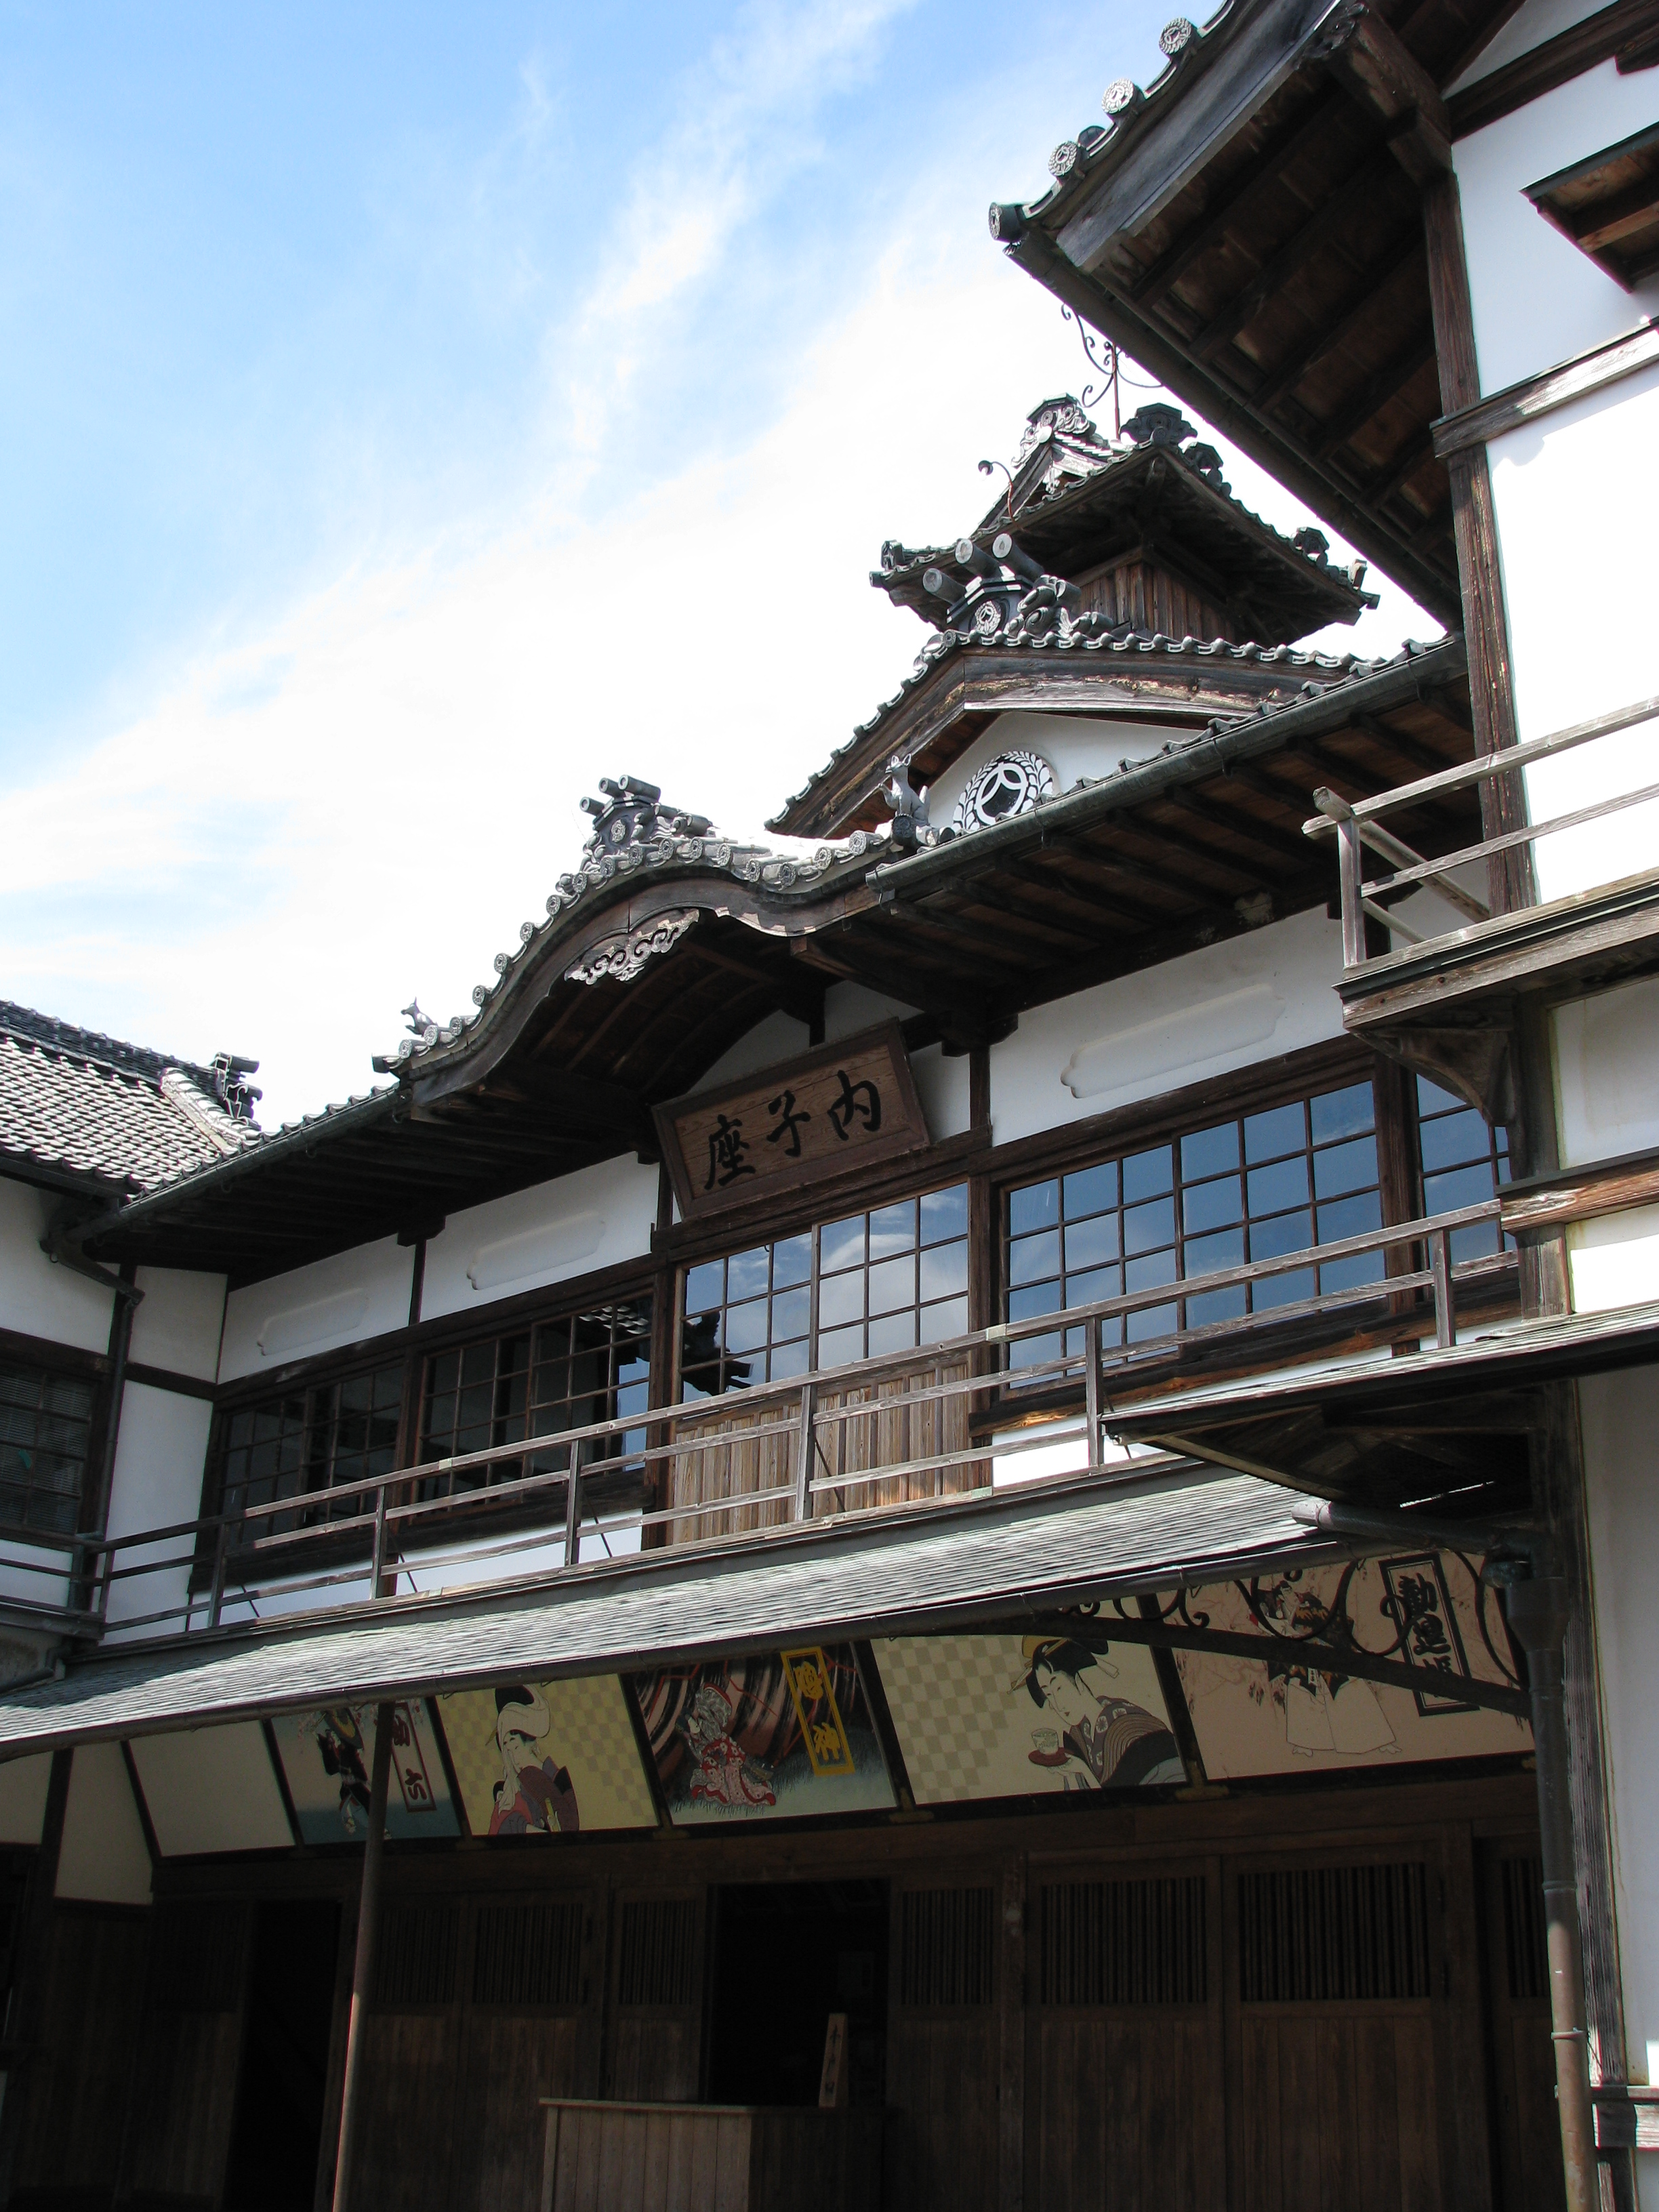
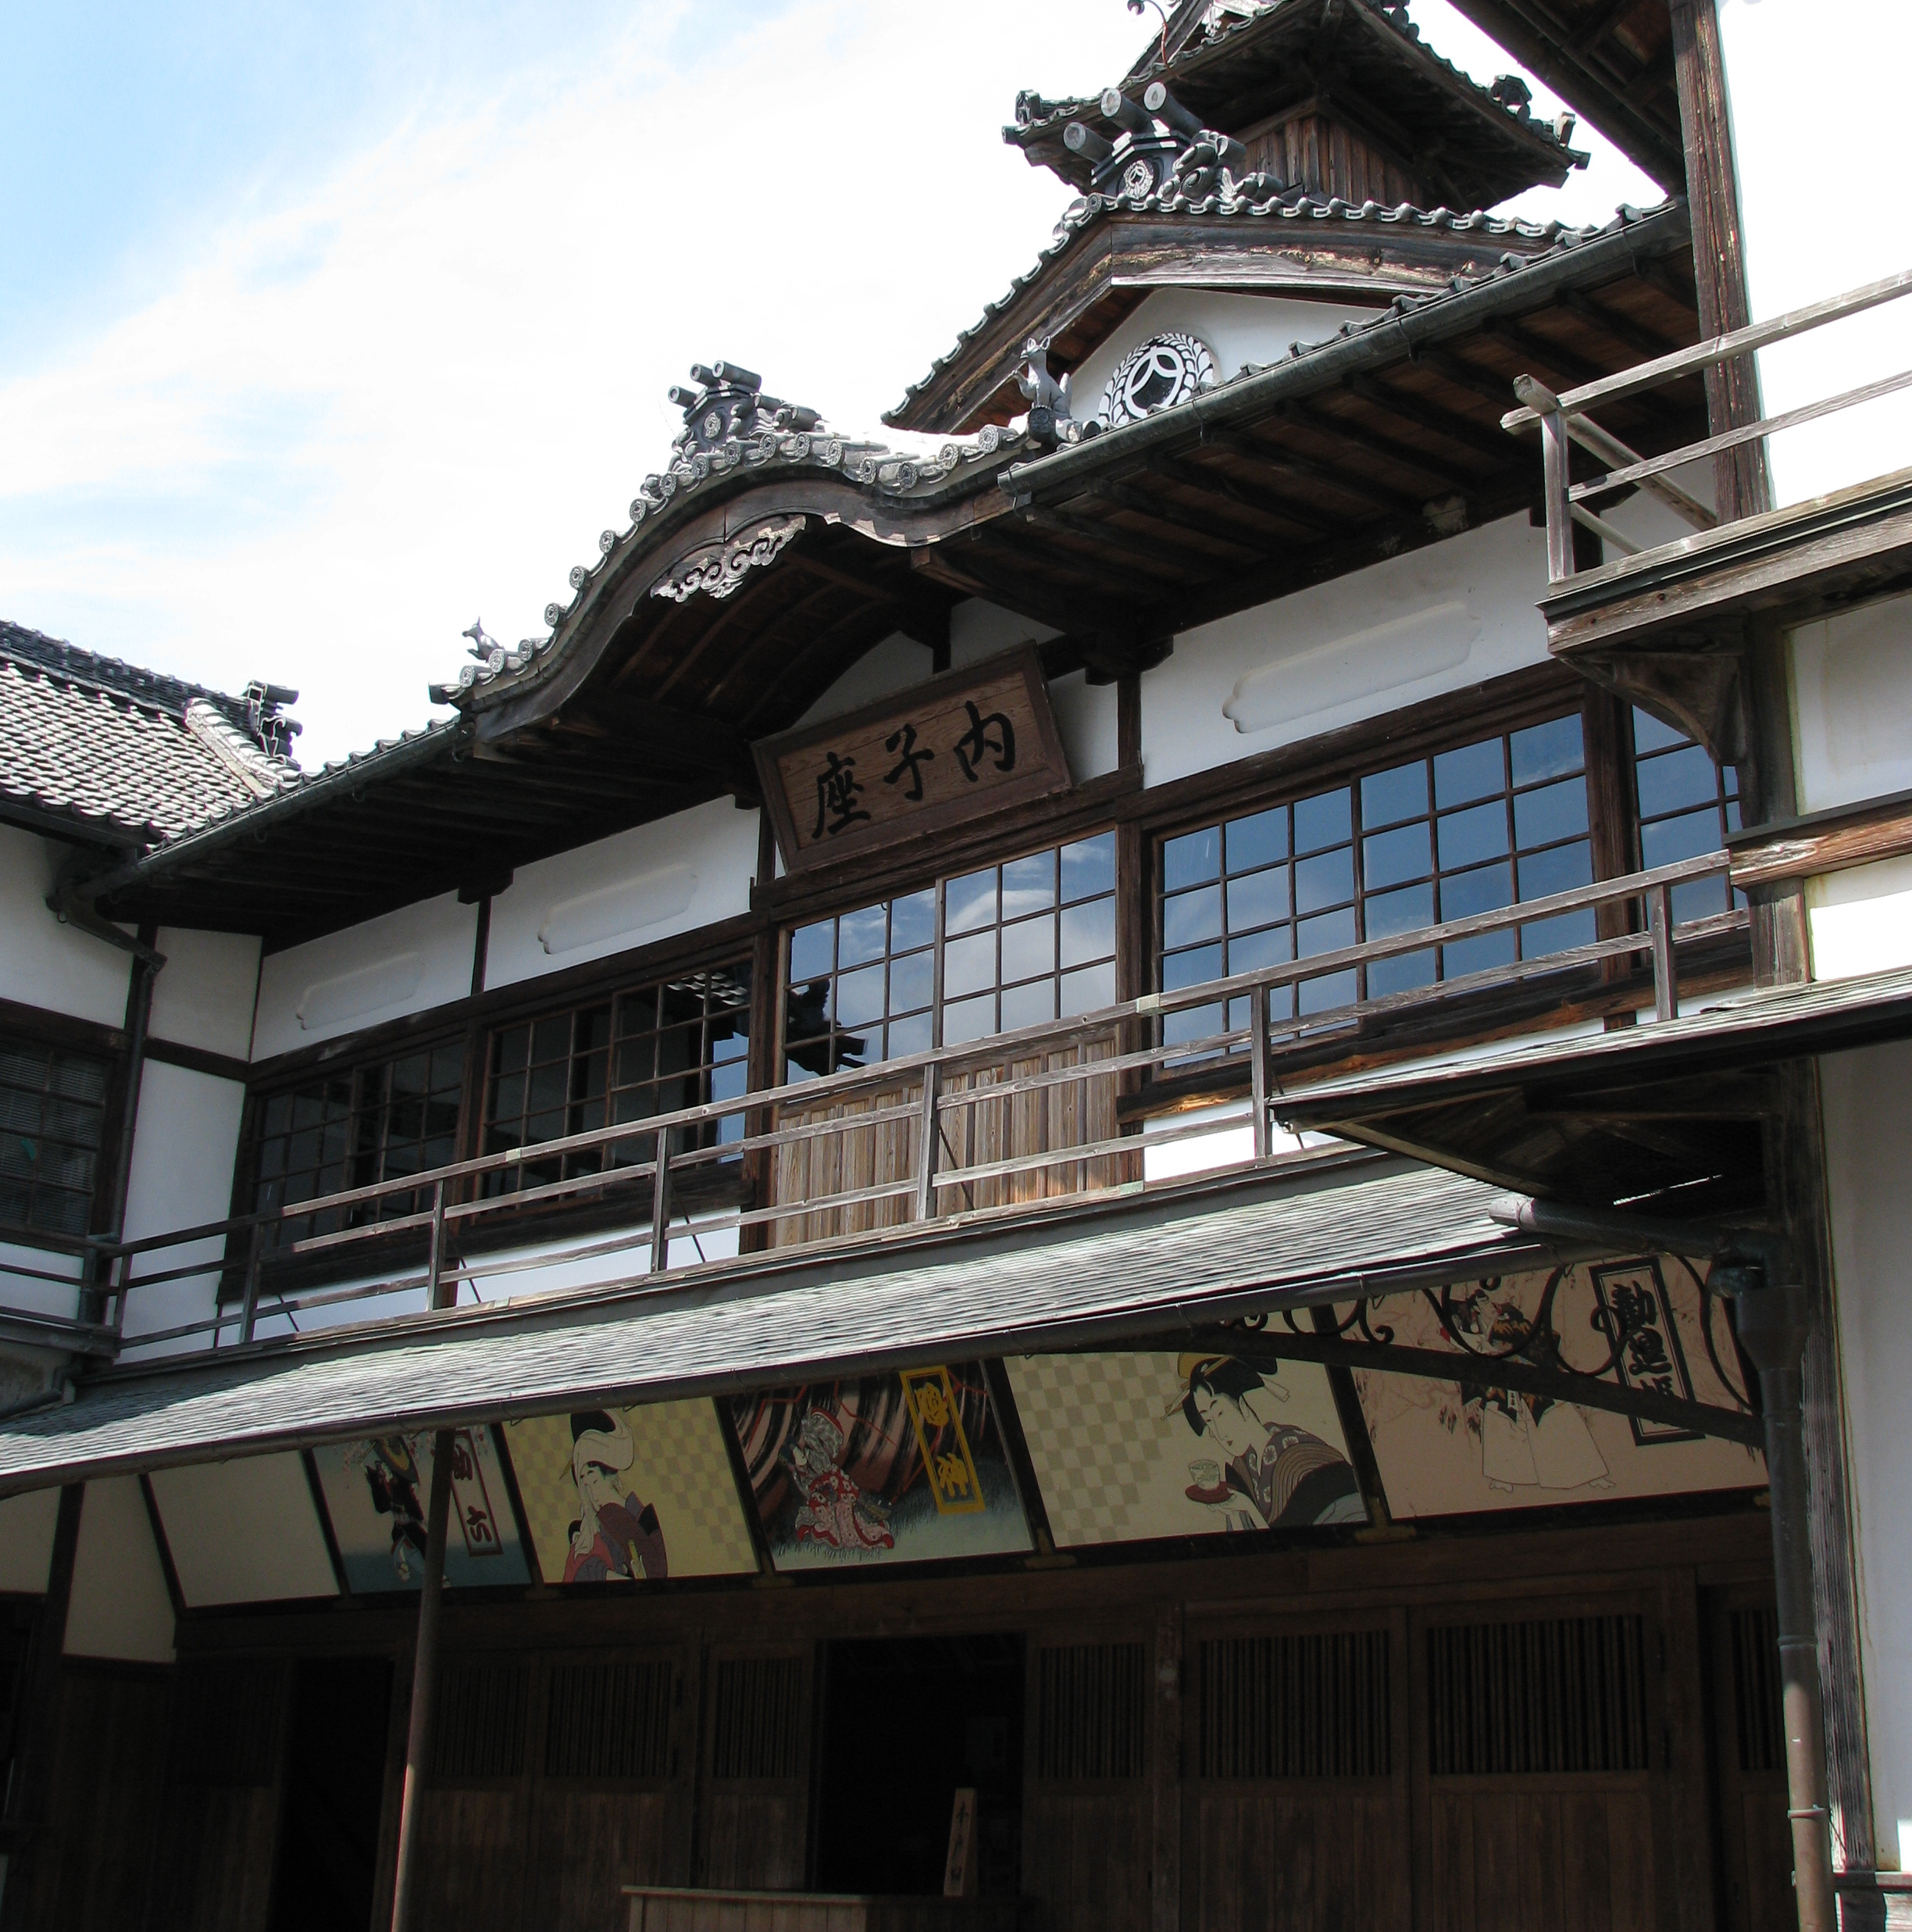
feat: ステージ５の難易度調整

diff --git a/src/stages/stage5.ts b/src/stages/stage5.ts
@@ -3,37 +3,36 @@ import { StageData } from "./index";
 export const stage5: StageData = {
   id: 5,
   name: "その他南予",
+  playerImage: "/nan-yo/fruit_orange.png",
   playerSize: { w: 70, h: 70 },
   hazardImage: "/nan-yo/teki/setsubun_oni_kowai.png",
   hazardSize: { w: 90, h: 90 },
   goalImage: "/goal-flag.png",
-  goalSize: { w: 50, h: 50 },
+  goalSize: { w: 100, h: 100 },
   screens: [
     {
       background: "/nan-yo/Uchikoza.jpg",
       platforms: [
-        { x: 100, y: 80, w: 55, h: 20 },
-        { x: 300, y: 180, w: 50, h: 20 },
-        { x: 500, y: 120, w: 55, h: 20 },
+        { x: 200, y: 80, w: 55, h: 20 },
+        { x: 400, y: 160, w: 50, h: 20 },
+        { x: 600, y: 80, w: 55, h: 20 },
+        { x: 800, y: 160, w: 55, h: 20 },
       ],
-      hazards: [
-        { x: 260, y: 0, w: 25, h: 20 },
-        { x: 470, y: 0, w: 25, h: 20 },
-      ],
+      hazards: [{ x: 470, y: 0, w: 25, h: 20 }],
       deathMessage: "内子座\n内子町にある、大正5年に建てた芝居小屋",
     },
     {
       background: "/nan-yo/nyohoji5.jpg",
       platforms: [
-        { x: 80, y: 130, w: 50, h: 20 },
-        { x: 240, y: 200, w: 50, h: 20 },
-        { x: 420, y: 130, w: 50, h: 20 },
-        { x: 580, y: 200, w: 50, h: 20 },
+        { x: 200, y: 80, w: 55, h: 20 },
+        { x: 400, y: 160, w: 50, h: 20 },
+        { x: 600, y: 80, w: 55, h: 20 },
+        { x: 800, y: 160, w: 55, h: 20 },
       ],
       hazards: [
-        // { x: 150, y: 0, w: 25, h: 20 },
-        // { x: 330, y: 0, w: 25, h: 20 },
-        // { x: 510, y: 0, w: 25, h: 20 },
+        { x: 300, y: 0, w: 25, h: 20 },
+        { x: 600, y: 0, w: 25, h: 20 },
+        { x: 900, y: 0, w: 25, h: 20 },
       ],
       deathMessage:
         "如法寺\n大洲市にある臨済宗妙心寺派の寺院\n大洲藩主、加藤泰興の開墓\n三大道場の一つ",
@@ -41,40 +40,30 @@ export const stage5: StageData = {
     {
       background: "/nan-yo/Ozu_Castle,_tenshu-1.jpg",
       platforms: [
-        { x: 100, y: 90, w: 50, h: 20 },
-        { x: 280, y: 170, w: 50, h: 20 },
-        { x: 460, y: 250, w: 50, h: 20 },
+        { x: 200, y: 80, w: 55, h: 20 },
+        { x: 350, y: 160, w: 50, h: 20 },
+        { x: 500, y: 250, w: 55, h: 20 },
+        { x: 600, y: 100, w: 55, h: 20 },
+        { x: 800, y: 160, w: 55, h: 20 },
       ],
       hazards: [
-        // { x: 190, y: 0, w: 25, h: 20 },
-        // { x: 370, y: 0, w: 25, h: 20 },
-        // { x: 560, y: 0, w: 25, h: 20 },
+        { x: 370, y: 0, w: 25, h: 20 },
+        { x: 560, y: 0, w: 25, h: 20 },
       ],
       deathMessage:
         "大洲城\n鎌倉時代末期に築城され、平成に木造天守が復元された。",
     },
-    // {
-    //   background: "/nan-yo/Kachidoki_JFA_Yawahahama_20090812.jpg",
-    //   platforms: [
-    //     { x: 80, y: 110, w: 50, h: 20 },
-    //     { x: 260, y: 190, w: 50, h: 20 },
-    //     { x: 440, y: 110, w: 50, h: 20 },
-    //   ],
-    //   hazards: [
-    //     { x: 170, y: 0, w: 25, h: 20 },
-    //     { x: 350, y: 0, w: 25, h: 20 },
-    //     { x: 540, y: 0, w: 25, h: 20 },
-    //   ],
-    // },
     {
       background: "/nan-yo/Sadamisaki_hantou_01.jpg",
       platforms: [
-        { x: 80, y: 80, w: 50, h: 20 },
-        { x: 260, y: 190, w: 50, h: 20 },
-        { x: 440, y: 110, w: 50, h: 20 },
+        { x: 150, y: 80, w: 50, h: 20 },
+        { x: 300, y: 160, w: 50, h: 20 },
+        { x: 500, y: 80, w: 50, h: 20 },
+        { x: 800, y: 80, w: 100, h: 20 },
       ],
       hazards: [
-        // { x: 170, y: 0, w: 25, h: 20 },
+        { x: 300, y: 0, w: 25, h: 20 },
+        { x: 500, y: 0, w: 25, h: 20 },
       ],
       deathMessage:
         "佐田岬半島\n八幡浜市に属する日本一細長い半島\n先端には佐田岬と佐田岬灯台がある",
@@ -82,37 +71,34 @@ export const stage5: StageData = {
     {
       background: "/nan-yo/Meijihasi_yawatahamasi.jpg",
       platforms: [
-        { x: 80, y: 110, w: 50, h: 20 },
-        { x: 260, y: 190, w: 50, h: 20 },
-        { x: 440, y: 110, w: 50, h: 20 },
+        { x: 150, y: 80, w: 20, h: 20 },
+        { x: 250, y: 160, w: 20, h: 20 },
+        { x: 350, y: 80, w: 20, h: 20 },
+        { x: 450, y: 160, w: 20, h: 20 },
+        { x: 530, y: 80, w: 20, h: 20 },
+        { x: 600, y: 160, w: 20, h: 20 },
+        { x: 700, y: 80, w: 20, h: 20 },
+        { x: 800, y: 160, w: 20, h: 20 },
+        { x: 950, y: 80, w: 20, h: 20 },
       ],
-      hazards: [],
+      hazards: [
+        { x: 300, y: 0, w: 25, h: 20 },
+        { x: 500, y: 0, w: 25, h: 20 },
+      ],
       deathMessage:
         "明治橋\n鉄筋コンクリート路式アーチ橋で、この形式の橋では現役最古\n初代明治橋のたもとで二宮忠八翁が自作の凧をあげて見せ、その凧で整形を立てていた",
     },
     {
       background: "/nan-yo/Unomachi_town_b.jpg",
       platforms: [
-        { x: 80, y: 110, w: 50, h: 20 },
-        { x: 260, y: 190, w: 50, h: 20 },
-        { x: 440, y: 110, w: 50, h: 20 },
+        { x: 80, y: 80, w: 50, h: 20 },
+        { x: 260, y: 160, w: 50, h: 20 },
+        { x: 440, y: 80, w: 50, h: 20 },
       ],
       hazards: [{ x: 170, y: 0, w: 25, h: 20 }],
       deathMessage:
         "卯之町\n宇和島藩の栄えていた佇まいを現代にとどめる町並み\n国の重要伝統的建造物保存地区に選定されている",
+      goal: { x: 620, y: 0 },
     },
-    // {
-    //   background: "/nan-yo/yukiwanotaki.jpg",
-    //   platforms: [
-    //     { x: 100, y: 100, w: 50, h: 20 },
-    //     { x: 300, y: 200, w: 50, h: 20 },
-    //     { x: 500, y: 100, w: 50, h: 20 },
-    //   ],
-    //   hazards: [
-    //     { x: 200, y: 0, w: 25, h: 20 },
-    //     { x: 400, y: 0, w: 25, h: 20 },
-    //   ],
-    //   goal: { x: 620, y: 0 },
-    // },
   ],
 };